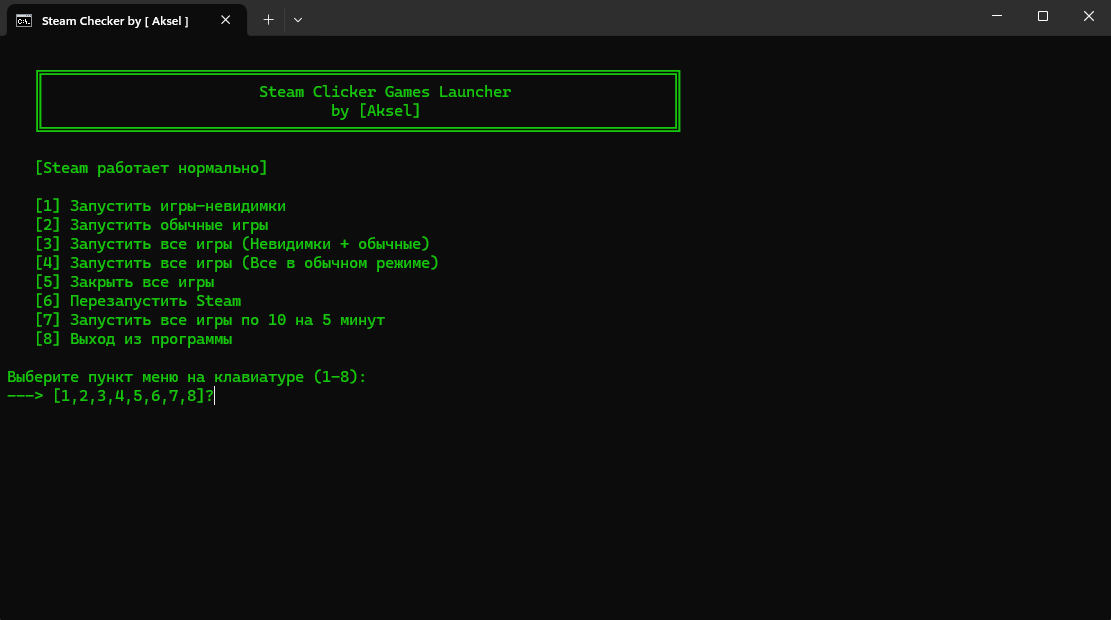
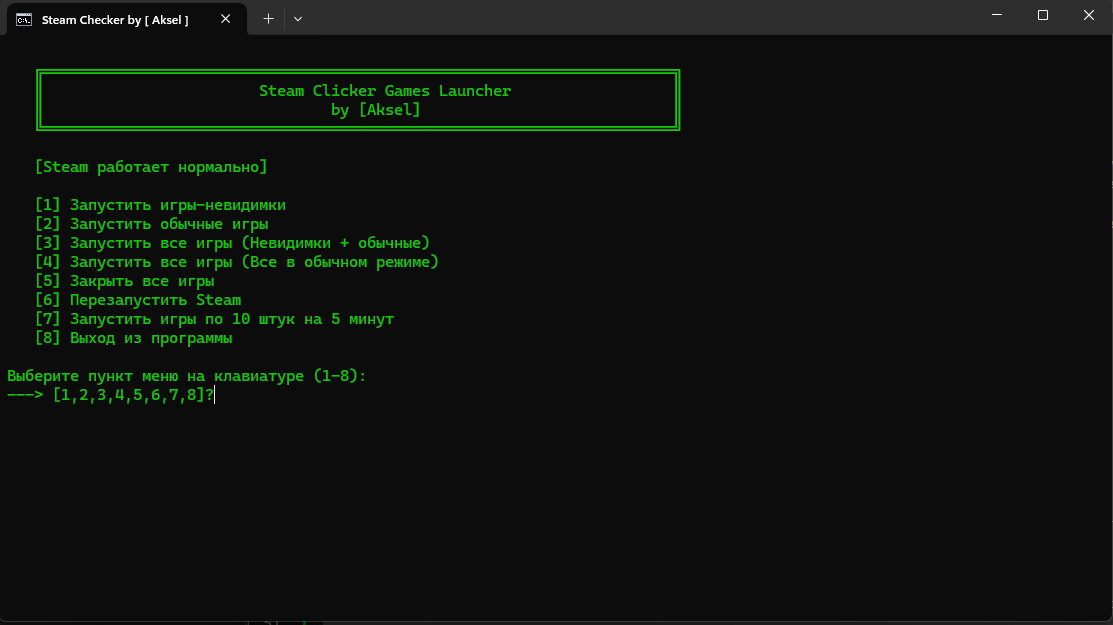
7.26.2024

diff --git a/README.md b/README.md
@@ -13,13 +13,13 @@
     ║                                by [Aksel]                            ║
     ╚══════════════════════════════════════════════════════════════════════╝
     
-    [1] Запустить игры-Невидимка
+    [1] Запустить игры-невидимки
     [2] Запустить обычные игры
-    [3] Запустить все игры (Невидимка + обычные)
+    [3] Запустить все игры (Невидимки + обычные)
     [4] Запустить все игры (Все в обычном режиме)
     [5] Закрыть все игры
     [6] Перезапустить Steam
-    [7] Запустить все игры по 10 на 5 минут
+    [7] Запустить игры по 10 штук на 5 минут
     [8] Выход из программы
 
 
@@ -29,7 +29,7 @@
 - **Запуск всех игр**: Запускает все игры одновременно или в пакетном режиме, что позволяет гибко управлять игровым процессом.
 - **Закрытие игр**: Закрывает все запущенные игры по ключевым словам процессов.
 - **Перезапуск Steam**: Осуществляет перезапуск Steam при необходимости. (Через файл **Steam_Checker.bat**)
-- **Пакетный запуск**: Поддержка запуска игр партиями по 10 игр с паузами, что позволяет управлять системными ресурсами.
+- **Пакетный запуск**: Поддержка запуска игр партиями по 10 игр с паузой на 5 минут.
 
 ## Как использовать
 
